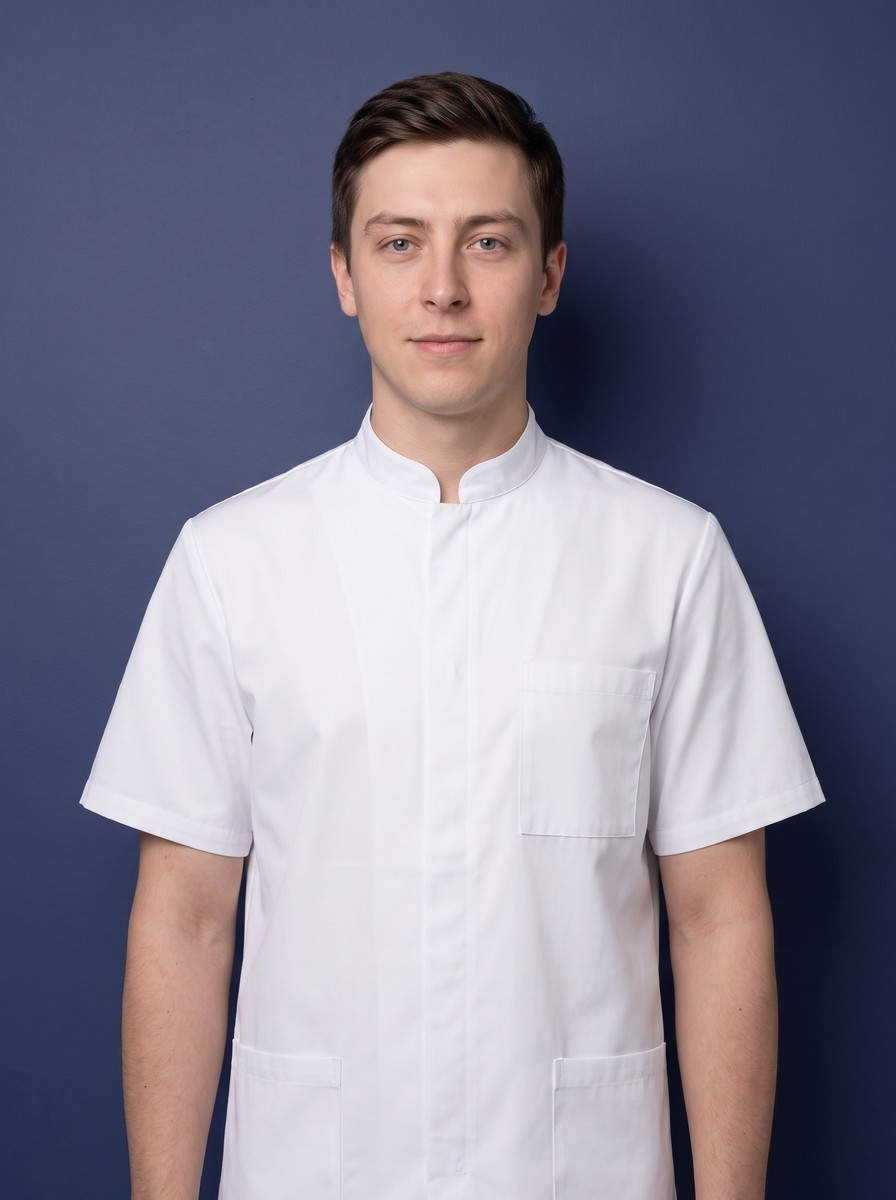
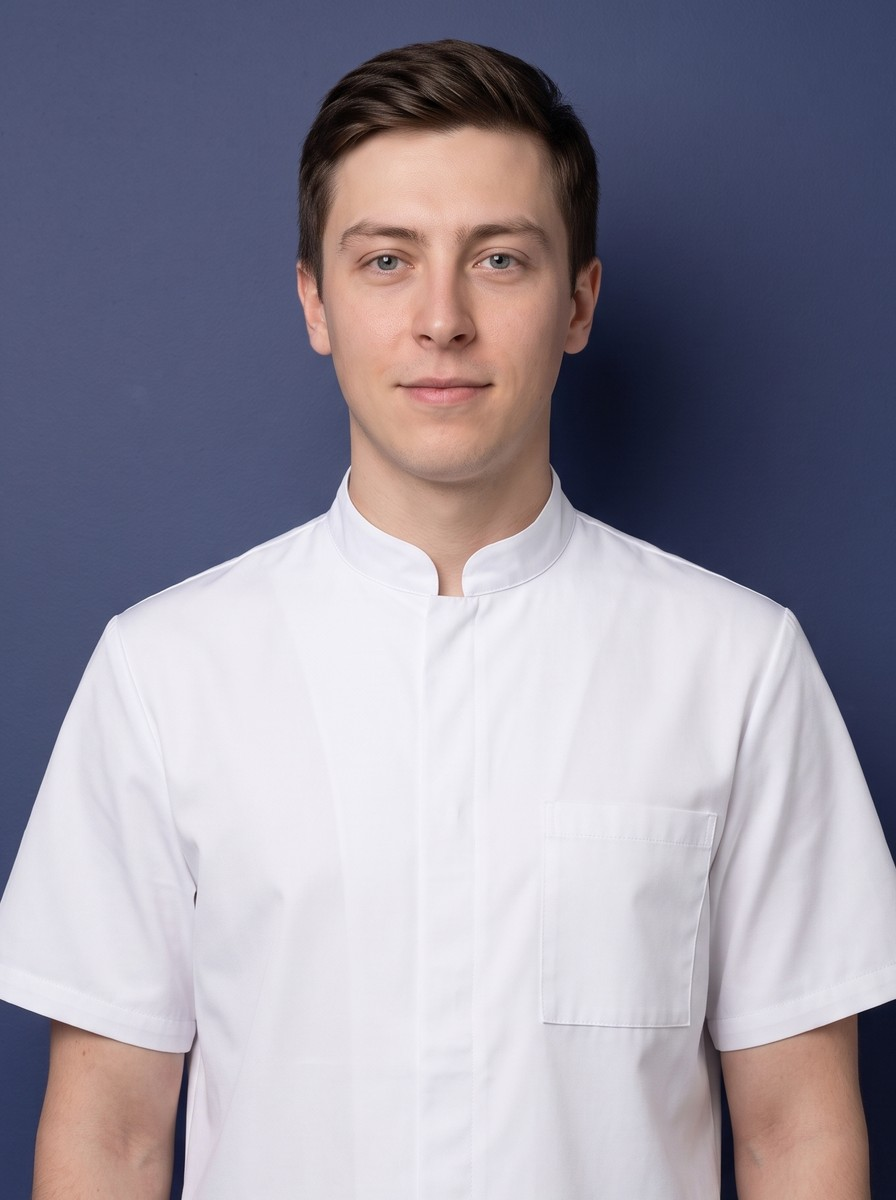
Единый кадр по образцу портрета Полины Олеговны
Кадр Полины принят за эталон композиции: макушка на 3,8% высоты кадра,
край короткого рукава на 86,9%. Все семь портретов пересобраны под эти
две линии — теперь у карточек одинаковая посадка фигуры.

Раньше кадр держался за линию глаз и масштаб лица, но при разной длине
шеи и торса низ кадра всё равно приходился у каждого на своё место:
у кого-то на пояс, у кого-то выше рукава. Держать одновременно и масштаб
лица, и обе линии композиции нельзя, и выбран второй вариант.

Портрет Анны кадрируется из исходного снимка, а не из расширенного:
в оригинале рукава попадают в кадр, и апскейла не требуется.

diff --git a/konsultatsiya.html b/konsultatsiya.html
@@ -32,7 +32,7 @@ try {
 <link rel="preconnect" href="https://fonts.googleapis.com">
 <link rel="preconnect" href="https://fonts.gstatic.com" crossorigin>
 <link href="https://fonts.googleapis.com/css2?family=Unbounded:wght@500;700;900&family=Manrope:wght@400;500;700;800&display=swap" rel="stylesheet">
-<link rel="stylesheet" href="styles.css?v=20260826d">
+<link rel="stylesheet" href="styles.css?v=20260826e">
 <script type="application/ld+json">{"@context": "https://schema.org", "@type": "Service", "name": "Приём и консультация стоматолога", "serviceType": "Приём и консультация стоматолога", "provider": {"@type": "Dentist", "name": "Честная стоматология", "address": {"@type": "PostalAddress", "streetAddress": "ул. Танкистов, 68", "addressLocality": "Пермь", "postalCode": "614012", "addressCountry": "RU"}, "telephone": "+79991152419"}, "areaServed": "Пермь", "offers": {"@type": "Offer", "price": "600", "priceCurrency": "RUB"}}</script>
 <script type="application/ld+json">{"@context": "https://schema.org", "@type": "FAQPage", "mainEntity": [{"@type": "Question", "name": "Нужно ли готовиться к консультации?", "acceptedAnswer": {"@type": "Answer", "text": "Нет, особой подготовки не требуется. Если есть снимки из других клиник — возьмите их с собой."}}, {"@type": "Question", "name": "Обязательно ли лечиться после консультации именно у вас?", "acceptedAnswer": {"@type": "Answer", "text": "Нет. План лечения и смета остаются у вас — решение вы принимаете без давления."}}, {"@type": "Question", "name": "Сколько действует смета?", "acceptedAnswer": {"@type": "Answer", "text": "Смета фиксируется в договоре до начала лечения и не меняется в процессе."}}]}</script>
 </head>
@@ -172,11 +172,11 @@ try {
 </div>
 
 <script>window.SERVICE_ID = "konsultatsiya";</script>
-<script src="db.js?v=20260826d"></script>
-<script src="md.js?v=20260826d"></script>
-<script src="services-data.js?v=20260826d"></script>
-<script src="ux.js?v=20260826d"></script>
-<script src="service.js?v=20260826d"></script>
-<script src="a11y.js?v=20260826d"></script>
+<script src="db.js?v=20260826e"></script>
+<script src="md.js?v=20260826e"></script>
+<script src="services-data.js?v=20260826e"></script>
+<script src="ux.js?v=20260826e"></script>
+<script src="service.js?v=20260826e"></script>
+<script src="a11y.js?v=20260826e"></script>
 </body>
 </html>

diff --git a/profgigiena.html b/profgigiena.html
@@ -32,7 +32,7 @@ try {
 <link rel="preconnect" href="https://fonts.googleapis.com">
 <link rel="preconnect" href="https://fonts.gstatic.com" crossorigin>
 <link href="https://fonts.googleapis.com/css2?family=Unbounded:wght@500;700;900&family=Manrope:wght@400;500;700;800&display=swap" rel="stylesheet">
-<link rel="stylesheet" href="styles.css?v=20260826d">
+<link rel="stylesheet" href="styles.css?v=20260826e">
 <script type="application/ld+json">{"@context": "https://schema.org", "@type": "Service", "name": "Профессиональная гигиена полости рта", "serviceType": "Профессиональная гигиена полости рта", "provider": {"@type": "Dentist", "name": "Честная стоматология", "address": {"@type": "PostalAddress", "streetAddress": "ул. Танкистов, 68", "addressLocality": "Пермь", "postalCode": "614012", "addressCountry": "RU"}, "telephone": "+79991152419"}, "areaServed": "Пермь", "offers": {"@type": "Offer", "price": "4900", "priceCurrency": "RUB"}}</script>
 <script type="application/ld+json">{"@context": "https://schema.org", "@type": "FAQPage", "mainEntity": [{"@type": "Question", "name": "Как часто нужно делать профгигиену?", "acceptedAnswer": {"@type": "Answer", "text": "Раз в полгода — регулярная гигиена в разы снижает риск кариеса."}}, {"@type": "Question", "name": "Есть ли акция?", "acceptedAnswer": {"@type": "Answer", "text": "Да, до 31.08.2026 чистка 1+1 для двоих — всего 6 990 ₽."}}, {"@type": "Question", "name": "Отбеливает ли чистка зубы?", "acceptedAnswer": {"@type": "Answer", "text": "Air-Flow возвращает естественный цвет эмали, убирая налёт от кофе, чая и курения."}}]}</script>
 </head>
@@ -172,11 +172,11 @@ try {
 </div>
 
 <script>window.SERVICE_ID = "profgigiena";</script>
-<script src="db.js?v=20260826d"></script>
-<script src="md.js?v=20260826d"></script>
-<script src="services-data.js?v=20260826d"></script>
-<script src="ux.js?v=20260826d"></script>
-<script src="service.js?v=20260826d"></script>
-<script src="a11y.js?v=20260826d"></script>
+<script src="db.js?v=20260826e"></script>
+<script src="md.js?v=20260826e"></script>
+<script src="services-data.js?v=20260826e"></script>
+<script src="ux.js?v=20260826e"></script>
+<script src="service.js?v=20260826e"></script>
+<script src="a11y.js?v=20260826e"></script>
 </body>
 </html>

diff --git a/protezirovanie.html b/protezirovanie.html
@@ -32,7 +32,7 @@ try {
 <link rel="preconnect" href="https://fonts.googleapis.com">
 <link rel="preconnect" href="https://fonts.gstatic.com" crossorigin>
 <link href="https://fonts.googleapis.com/css2?family=Unbounded:wght@500;700;900&family=Manrope:wght@400;500;700;800&display=swap" rel="stylesheet">
-<link rel="stylesheet" href="styles.css?v=20260826d">
+<link rel="stylesheet" href="styles.css?v=20260826e">
 <script type="application/ld+json">{"@context": "https://schema.org", "@type": "Service", "name": "Протезирование зубов", "serviceType": "Протезирование зубов", "provider": {"@type": "Dentist", "name": "Честная стоматология", "address": {"@type": "PostalAddress", "streetAddress": "ул. Танкистов, 68", "addressLocality": "Пермь", "postalCode": "614012", "addressCountry": "RU"}, "telephone": "+79991152419"}, "areaServed": "Пермь", "offers": {"@type": "Offer", "price": "10440", "priceCurrency": "RUB"}}</script>
 <script type="application/ld+json">{"@context": "https://schema.org", "@type": "FAQPage", "mainEntity": [{"@type": "Question", "name": "Что значит «под ключ»?", "acceptedAnswer": {"@type": "Answer", "text": "В цену включены все этапы: подготовка, слепки, изготовление, примерка и фиксация."}}, {"@type": "Question", "name": "Какая коронка лучше?", "acceptedAnswer": {"@type": "Answer", "text": "Цельнолитая — бюджетный вариант для жевательных зубов, циркониевая — эстетичнее, по акции 24 500 ₽."}}, {"@type": "Question", "name": "Больно ли ставить коронку?", "acceptedAnswer": {"@type": "Answer", "text": "Все этапы проходят с анестезией."}}]}</script>
 </head>
@@ -172,11 +172,11 @@ try {
 </div>
 
 <script>window.SERVICE_ID = "protezirovanie";</script>
-<script src="db.js?v=20260826d"></script>
-<script src="md.js?v=20260826d"></script>
-<script src="services-data.js?v=20260826d"></script>
-<script src="ux.js?v=20260826d"></script>
-<script src="service.js?v=20260826d"></script>
-<script src="a11y.js?v=20260826d"></script>
+<script src="db.js?v=20260826e"></script>
+<script src="md.js?v=20260826e"></script>
+<script src="services-data.js?v=20260826e"></script>
+<script src="ux.js?v=20260826e"></script>
+<script src="service.js?v=20260826e"></script>
+<script src="a11y.js?v=20260826e"></script>
 </body>
 </html>

diff --git a/lechenie-kariesa.html b/lechenie-kariesa.html
@@ -32,7 +32,7 @@ try {
 <link rel="preconnect" href="https://fonts.googleapis.com">
 <link rel="preconnect" href="https://fonts.gstatic.com" crossorigin>
 <link href="https://fonts.googleapis.com/css2?family=Unbounded:wght@500;700;900&family=Manrope:wght@400;500;700;800&display=swap" rel="stylesheet">
-<link rel="stylesheet" href="styles.css?v=20260826d">
+<link rel="stylesheet" href="styles.css?v=20260826e">
 <script type="application/ld+json">{"@context": "https://schema.org", "@type": "Service", "name": "Лечение кариеса", "serviceType": "Лечение кариеса", "provider": {"@type": "Dentist", "name": "Честная стоматология", "address": {"@type": "PostalAddress", "streetAddress": "ул. Танкистов, 68", "addressLocality": "Пермь", "postalCode": "614012", "addressCountry": "RU"}, "telephone": "+79991152419"}, "areaServed": "Пермь", "offers": {"@type": "Offer", "price": "4000", "priceCurrency": "RUB"}}</script>
 <script type="application/ld+json">{"@context": "https://schema.org", "@type": "FAQPage", "mainEntity": [{"@type": "Question", "name": "Больно ли лечить кариес?", "acceptedAnswer": {"@type": "Answer", "text": "Нет, используем современную анестезию — пациенты не чувствуют даже укол."}}, {"@type": "Question", "name": "Действует ли скидка?", "acceptedAnswer": {"@type": "Answer", "text": "Да, до 31.08.2026 — скидка 15% на лечение кариеса при прохождении профгигиены."}}, {"@type": "Question", "name": "Что будет, если кариес не лечить?", "acceptedAnswer": {"@type": "Answer", "text": "Кариес перейдёт в пульпит — лечение будет дольше и дороже."}}]}</script>
 </head>
@@ -172,11 +172,11 @@ try {
 </div>
 
 <script>window.SERVICE_ID = "lechenie-kariesa";</script>
-<script src="db.js?v=20260826d"></script>
-<script src="md.js?v=20260826d"></script>
-<script src="services-data.js?v=20260826d"></script>
-<script src="ux.js?v=20260826d"></script>
-<script src="service.js?v=20260826d"></script>
-<script src="a11y.js?v=20260826d"></script>
+<script src="db.js?v=20260826e"></script>
+<script src="md.js?v=20260826e"></script>
+<script src="services-data.js?v=20260826e"></script>
+<script src="ux.js?v=20260826e"></script>
+<script src="service.js?v=20260826e"></script>
+<script src="a11y.js?v=20260826e"></script>
 </body>
 </html>

diff --git a/restavratsiya.html b/restavratsiya.html
@@ -32,7 +32,7 @@ try {
 <link rel="preconnect" href="https://fonts.googleapis.com">
 <link rel="preconnect" href="https://fonts.gstatic.com" crossorigin>
 <link href="https://fonts.googleapis.com/css2?family=Unbounded:wght@500;700;900&family=Manrope:wght@400;500;700;800&display=swap" rel="stylesheet">
-<link rel="stylesheet" href="styles.css?v=20260826d">
+<link rel="stylesheet" href="styles.css?v=20260826e">
 <script type="application/ld+json">{"@context": "https://schema.org", "@type": "Service", "name": "Эстетическая реставрация зубов", "serviceType": "Эстетическая реставрация зубов", "provider": {"@type": "Dentist", "name": "Честная стоматология", "address": {"@type": "PostalAddress", "streetAddress": "ул. Танкистов, 68", "addressLocality": "Пермь", "postalCode": "614012", "addressCountry": "RU"}, "telephone": "+79991152419"}, "areaServed": "Пермь", "offers": {"@type": "Offer", "price": "3500", "priceCurrency": "RUB"}}</script>
 <script type="application/ld+json">{"@context": "https://schema.org", "@type": "FAQPage", "mainEntity": [{"@type": "Question", "name": "Чем реставрация отличается от коронки?", "acceptedAnswer": {"@type": "Answer", "text": "Реставрация делается композитом за один визит и не требует обточки зуба."}}, {"@type": "Question", "name": "Сколько держится реставрация?", "acceptedAnswer": {"@type": "Answer", "text": "При правильном уходе — 5–10 лет."}}, {"@type": "Question", "name": "Можно ли закрыть щель между передними зубами?", "acceptedAnswer": {"@type": "Answer", "text": "Да, это решается за один визит."}}]}</script>
 </head>
@@ -172,11 +172,11 @@ try {
 </div>
 
 <script>window.SERVICE_ID = "restavratsiya";</script>
-<script src="db.js?v=20260826d"></script>
-<script src="md.js?v=20260826d"></script>
-<script src="services-data.js?v=20260826d"></script>
-<script src="ux.js?v=20260826d"></script>
-<script src="service.js?v=20260826d"></script>
-<script src="a11y.js?v=20260826d"></script>
+<script src="db.js?v=20260826e"></script>
+<script src="md.js?v=20260826e"></script>
+<script src="services-data.js?v=20260826e"></script>
+<script src="ux.js?v=20260826e"></script>
+<script src="service.js?v=20260826e"></script>
+<script src="a11y.js?v=20260826e"></script>
 </body>
 </html>

diff --git a/udalenie-zubov.html b/udalenie-zubov.html
@@ -32,7 +32,7 @@ try {
 <link rel="preconnect" href="https://fonts.googleapis.com">
 <link rel="preconnect" href="https://fonts.gstatic.com" crossorigin>
 <link href="https://fonts.googleapis.com/css2?family=Unbounded:wght@500;700;900&family=Manrope:wght@400;500;700;800&display=swap" rel="stylesheet">
-<link rel="stylesheet" href="styles.css?v=20260826d">
+<link rel="stylesheet" href="styles.css?v=20260826e">
 <script type="application/ld+json">{"@context": "https://schema.org", "@type": "Service", "name": "Удаление зубов", "serviceType": "Удаление зубов", "provider": {"@type": "Dentist", "name": "Честная стоматология", "address": {"@type": "PostalAddress", "streetAddress": "ул. Танкистов, 68", "addressLocality": "Пермь", "postalCode": "614012", "addressCountry": "RU"}, "telephone": "+79991152419"}, "areaServed": "Пермь", "offers": {"@type": "Offer", "price": "2500", "priceCurrency": "RUB"}}</script>
 <script type="application/ld+json">{"@context": "https://schema.org", "@type": "FAQPage", "mainEntity": [{"@type": "Question", "name": "Вы сразу предложите удалить зуб?", "acceptedAnswer": {"@type": "Answer", "text": "Нет, наш принцип — сохранять зубы, которые можно вылечить."}}, {"@type": "Question", "name": "Принимаете ли вы с острой болью?", "acceptedAnswer": {"@type": "Answer", "text": "Да, есть неотложка для взрослых — постараемся принять в день обращения."}}, {"@type": "Question", "name": "Что делать после удаления?", "acceptedAnswer": {"@type": "Answer", "text": "Врач даст подробные рекомендации; при вопросах — звоните."}}]}</script>
 </head>
@@ -172,11 +172,11 @@ try {
 </div>
 
 <script>window.SERVICE_ID = "udalenie-zubov";</script>
-<script src="db.js?v=20260826d"></script>
-<script src="md.js?v=20260826d"></script>
-<script src="services-data.js?v=20260826d"></script>
-<script src="ux.js?v=20260826d"></script>
-<script src="service.js?v=20260826d"></script>
-<script src="a11y.js?v=20260826d"></script>
+<script src="db.js?v=20260826e"></script>
+<script src="md.js?v=20260826e"></script>
+<script src="services-data.js?v=20260826e"></script>
+<script src="ux.js?v=20260826e"></script>
+<script src="service.js?v=20260826e"></script>
+<script src="a11y.js?v=20260826e"></script>
 </body>
 </html>

diff --git a/index.html b/index.html
@@ -80,10 +80,10 @@ try {
 <link rel="preconnect" href="https://fonts.googleapis.com">
 <link rel="preconnect" href="https://fonts.gstatic.com" crossorigin>
 <link href="https://fonts.googleapis.com/css2?family=Unbounded:wght@500;700;900&family=Manrope:wght@400;500;700;800&family=Cairo:wght@400;600;800&display=swap" rel="stylesheet">
-<link rel="stylesheet" href="styles.css?v=20260826d">
-<link rel="stylesheet" href="effects.css?v=20260826d">
-<link rel="stylesheet" href="cards-fx.css?v=20260826d">
-<link rel="stylesheet" href="polish.css?v=20260826d">
+<link rel="stylesheet" href="styles.css?v=20260826e">
+<link rel="stylesheet" href="effects.css?v=20260826e">
+<link rel="stylesheet" href="cards-fx.css?v=20260826e">
+<link rel="stylesheet" href="polish.css?v=20260826e">
 </head>
 <body data-theme="deep">
 <a class="skip-link" href="#care">Перейти к содержанию</a>
@@ -660,20 +660,20 @@ try {
   </div>
 </div>
 
-<script src="i18n.js?v=20260826d"></script>
-<script src="db.js?v=20260826d"></script>
-<script src="auth.js?v=20260826d"></script>
-<script src="md.js?v=20260826d"></script>
-<script src="ux.js?v=20260826d"></script>
-<script src="app.js?v=20260826d"></script>
-<script src="water.js?v=20260826d" defer></script>
-<script src="effects.js?v=20260826d" defer></script>
-<script src="teeth-map.js?v=20260826d" defer></script>
-<script src="hero-seq.js?v=20260826d" defer></script>
-<script src="tour.js?v=20260826d" defer></script>
-<script src="cards-fx.js?v=20260826d" defer></script>
-<script src="motion-fx.js?v=20260826d" defer></script>
-<script src="polish.js?v=20260826d" defer></script>
-<script src="a11y.js?v=20260826d"></script>
+<script src="i18n.js?v=20260826e"></script>
+<script src="db.js?v=20260826e"></script>
+<script src="auth.js?v=20260826e"></script>
+<script src="md.js?v=20260826e"></script>
+<script src="ux.js?v=20260826e"></script>
+<script src="app.js?v=20260826e"></script>
+<script src="water.js?v=20260826e" defer></script>
+<script src="effects.js?v=20260826e" defer></script>
+<script src="teeth-map.js?v=20260826e" defer></script>
+<script src="hero-seq.js?v=20260826e" defer></script>
+<script src="tour.js?v=20260826e" defer></script>
+<script src="cards-fx.js?v=20260826e" defer></script>
+<script src="motion-fx.js?v=20260826e" defer></script>
+<script src="polish.js?v=20260826e" defer></script>
+<script src="a11y.js?v=20260826e"></script>
 </body>
 </html>

diff --git a/admin.html b/admin.html
@@ -20,8 +20,8 @@ try { if (!localStorage.getItem("chestom_session")) location.replace("login.html
 <link rel="preconnect" href="https://fonts.googleapis.com">
 <link rel="preconnect" href="https://fonts.gstatic.com" crossorigin>
 <link href="https://fonts.googleapis.com/css2?family=Unbounded:wght@500;700&family=Manrope:wght@400;500;700;800&display=swap" rel="stylesheet">
-<link rel="stylesheet" href="styles.css?v=20260826d">
-<link rel="stylesheet" href="admin.css?v=20260826d">
+<link rel="stylesheet" href="styles.css?v=20260826e">
+<link rel="stylesheet" href="admin.css?v=20260826e">
 </head>
 <body class="adm-body">
 
@@ -302,10 +302,10 @@ try { if (!localStorage.getItem("chestom_session")) location.replace("login.html
   </div>
 </div>
 
-<script src="db.js?v=20260826d"></script>
-<script src="auth.js?v=20260826d"></script>
-<script src="md.js?v=20260826d"></script>
-<script src="admin.js?v=20260826d"></script>
-<script src="a11y.js?v=20260826d"></script>
+<script src="db.js?v=20260826e"></script>
+<script src="auth.js?v=20260826e"></script>
+<script src="md.js?v=20260826e"></script>
+<script src="admin.js?v=20260826e"></script>
+<script src="a11y.js?v=20260826e"></script>
 </body>
 </html>

diff --git a/_service_template.html b/_service_template.html
@@ -27,7 +27,7 @@ try {
 <link rel="preconnect" href="https://fonts.googleapis.com">
 <link rel="preconnect" href="https://fonts.gstatic.com" crossorigin>
 <link href="https://fonts.googleapis.com/css2?family=Unbounded:wght@500;700;900&family=Manrope:wght@400;500;700;800&display=swap" rel="stylesheet">
-<link rel="stylesheet" href="styles.css?v=20260826d">
+<link rel="stylesheet" href="styles.css?v=20260826e">
 <script type="application/ld+json">{{LD_SERVICE}}</script>
 <script type="application/ld+json">{{LD_FAQ}}</script>
 </head>
@@ -167,11 +167,11 @@ try {
 </div>
 
 <script>window.SERVICE_ID = "{{SLUG}}";</script>
-<script src="db.js?v=20260826d"></script>
-<script src="md.js?v=20260826d"></script>
-<script src="services-data.js?v=20260826d"></script>
-<script src="ux.js?v=20260826d"></script>
-<script src="service.js?v=20260826d"></script>
-<script src="a11y.js?v=20260826d"></script>
+<script src="db.js?v=20260826e"></script>
+<script src="md.js?v=20260826e"></script>
+<script src="services-data.js?v=20260826e"></script>
+<script src="ux.js?v=20260826e"></script>
+<script src="service.js?v=20260826e"></script>
+<script src="a11y.js?v=20260826e"></script>
 </body>
 </html>

diff --git a/404.html b/404.html
@@ -19,7 +19,7 @@ try {
 <link rel="preconnect" href="https://fonts.googleapis.com">
 <link rel="preconnect" href="https://fonts.gstatic.com" crossorigin>
 <link href="https://fonts.googleapis.com/css2?family=Unbounded:wght@700&family=Manrope:wght@400;700&display=swap" rel="stylesheet">
-<link rel="stylesheet" href="styles.css?v=20260826d">
+<link rel="stylesheet" href="styles.css?v=20260826e">
 <style>
   .nf { min-height: 100svh; display: flex; flex-direction: column; align-items: center; justify-content: center; text-align: center; padding: 24px; gap: 18px; }
   .nf__tooth { width: 120px; opacity: 0.85; filter: drop-shadow(0 16px 50px rgba(122, 108, 240,0.35)); animation: nfFloat 4s ease-in-out infinite alternate; }
@@ -40,6 +40,6 @@ try {
   <a class="btn btn--primary btn--lg" href="index.html">На главную</a>
   <a class="btn btn--ghost" href="tel:+79991152419">Позвонить: +7 999 115-24-19</a>
 </main>
-<script src="a11y.js?v=20260826d"></script>
+<script src="a11y.js?v=20260826e"></script>
 </body>
 </html>

diff --git a/doctor.html b/doctor.html
@@ -27,7 +27,7 @@ try {
 <link rel="preconnect" href="https://fonts.googleapis.com">
 <link rel="preconnect" href="https://fonts.gstatic.com" crossorigin>
 <link href="https://fonts.googleapis.com/css2?family=Unbounded:wght@500;700;900&family=Manrope:wght@400;500;700;800&display=swap" rel="stylesheet">
-<link rel="stylesheet" href="styles.css?v=20260826d">
+<link rel="stylesheet" href="styles.css?v=20260826e">
 </head>
 <body>
 
@@ -138,10 +138,10 @@ try {
   </div>
 </div>
 
-<script src="db.js?v=20260826d"></script>
-<script src="md.js?v=20260826d"></script>
-<script src="ux.js?v=20260826d"></script>
-<script src="doctor.js?v=20260826d"></script>
-<script src="a11y.js?v=20260826d"></script>
+<script src="db.js?v=20260826e"></script>
+<script src="md.js?v=20260826e"></script>
+<script src="ux.js?v=20260826e"></script>
+<script src="doctor.js?v=20260826e"></script>
+<script src="a11y.js?v=20260826e"></script>
 </body>
 </html>

diff --git a/login.html b/login.html
@@ -19,7 +19,7 @@ try {
 <link rel="preconnect" href="https://fonts.googleapis.com">
 <link rel="preconnect" href="https://fonts.gstatic.com" crossorigin>
 <link href="https://fonts.googleapis.com/css2?family=Unbounded:wght@500;700&family=Manrope:wght@400;500;700;800&display=swap" rel="stylesheet">
-<link rel="stylesheet" href="styles.css?v=20260826d">
+<link rel="stylesheet" href="styles.css?v=20260826e">
 <style>
   .login {
     min-height: 100svh; display: flex; align-items: center; justify-content: center;
@@ -88,8 +88,8 @@ try {
   </form>
 </main>
 
-<script src="db.js?v=20260826d"></script>
-<script src="auth.js?v=20260826d"></script>
+<script src="db.js?v=20260826e"></script>
+<script src="auth.js?v=20260826e"></script>
 <script>
 (() => {
   "use strict";
@@ -111,6 +111,6 @@ try {
   });
 })();
 </script>
-<script src="a11y.js?v=20260826d"></script>
+<script src="a11y.js?v=20260826e"></script>
 </body>
 </html>
